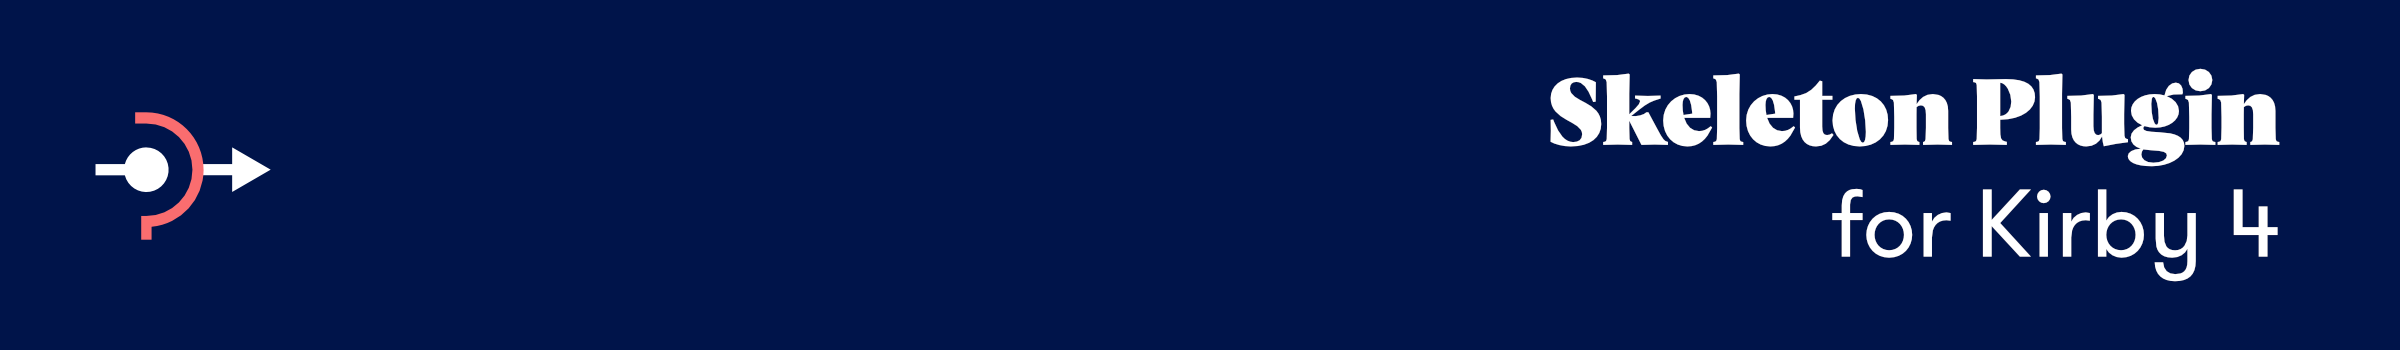
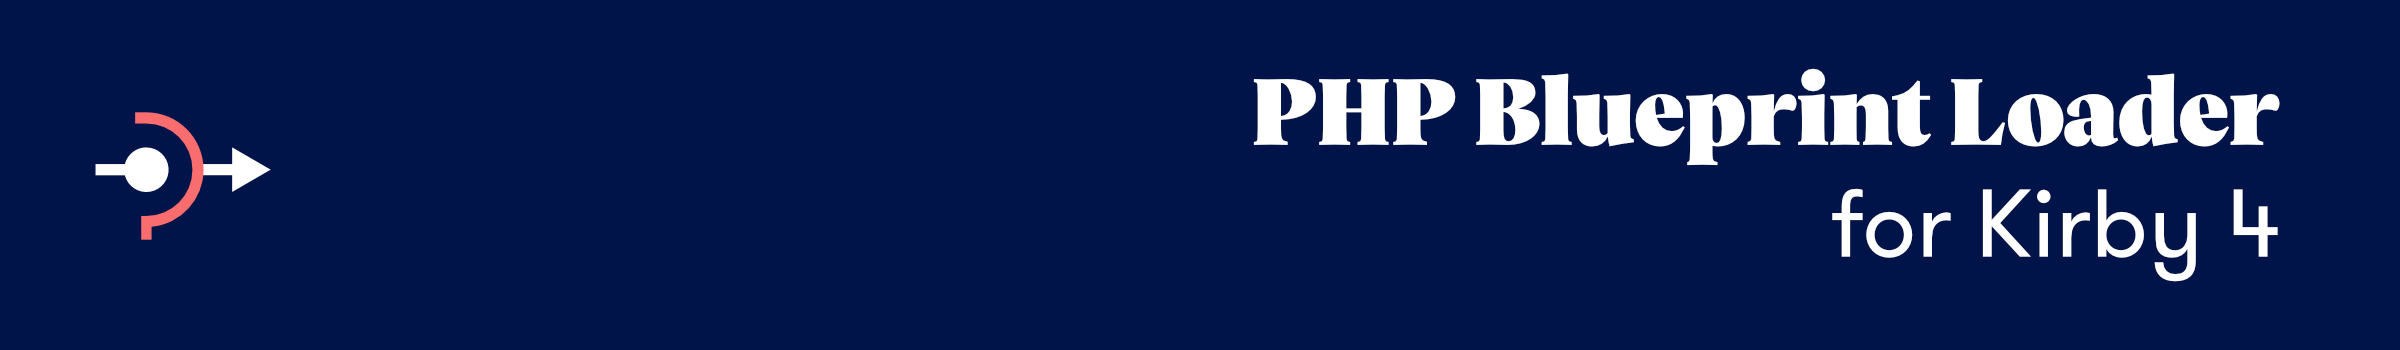
Update README.md

Changed region(s): [[0.5, 0.2, 0.9688, 0.4857]]

diff --git a/README.md b/README.md
@@ -1,40 +1,22 @@
-![Kirby Skeleton Plugin](/.github/banner.png)
+![Kirby PHP Blueprint Loader Plugin](/.github/banner.png)
 
-# My Kirby plugin readme
+# Kirby PHP Blueprint Loader Plugin
 
-This is our boilerplate for Kirby plugins. Put a short description of what your plugin does here.
+Start using PHP blueprints in your `site` folder today!
 
 > ⚡ Ready for Kirby 4!
 
 ----
 
-> [!NOTE]
-> Delete this section after you are done.
-
-This is our boilerplate for Kirby plugins. Create a project from this repository to create a new plugin and adjust the files accordingly:
-
-```bash
-# Adjust `my-new-kirby-plugin` to whatever you want to name the output folder
-composer create-project presprog/kirby-skeleton-plugin my-new-kirby-plugin
-```
-1. Update `composer.json`:
-* Update the package name
-* Update the PSR-4 namespace (or remove entirely)
-*  Update the installer name (or remove entirely)
-2. Set the package name in `index.php`
-3. Set the package name in `panel/index.js`
-4. Add [badges](https://poser.pugx.org/), if you like
-5. Write a proper `README.md` for your plugin
-
-----
-
 ## 🚀 How to use
 
-…
+Kirby lets you use PHP-based blueprints in plugins, e.g. to use different blueprints for different user roles. This is thoroughly described [in Sonja's fantastic cook book article](https://getkirby.com/docs/cookbook/development-deployment/programmable-blueprints). Unfortunately, this does not work with the native `blueprints` folder, usually residing in `site/blueprints`.
 
-## ⚙ Config
+After installing this plugin, you can start using PHP-based blueprints in `site/blueprints` folder, just like you would in plugins!
 
-…
+Happy Coding!
+
+[//]: # (## ⚙ Config)
 
 ## 💻 How to install
 
@@ -44,15 +26,11 @@ Install this plugin via **Composer**:
 composer require presprog/kirby-php-blueprint-loader
 ```
 
-Or **download the ZIP file** from GitHub and unpack it to `site/plugins/kirby-php-blueprint-loader`
-
-## ✅ To do
-
-…
+Or **download the ZIP file** from GitHub and unpack it to `site/plugins/php-blueprint-loader`
 
 ## 📄 License
 
-MIT License Copyright © 2024 Present Progressive
+MIT License Copyright © 2025 Present Progressive
 
 ----
 
